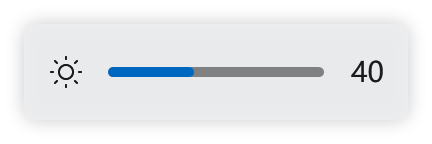
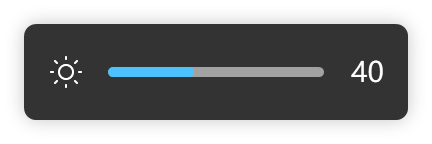
fix(4.3.2): 横条位置抬高到离屏幕底 62 DIP · 两套配色按纯色底反解重做
位置（用户反馈"太低了"）：系统横条在任务栏自动隐藏时仍让开任务栏，
原来按 rcWork(=整屏) - 15 DIP 算，结果贴到屏幕最底部。
现在用 SHAppBarMessage(ABM_GETTASKBARPOS) 取任务栏矩形，
基准改成 min(工作区底, 任务栏上沿) - 15 DIP：
任务栏可见/自动隐藏都落在离屏幕底 63 DIP，与实测一致。

配色（纯黑/纯白底各截一帧反解 alpha 与底色）：
  · 日间：卡片 #F9F9F9 @85.5%（黑底 (212,212,212)、白底 (249,249,249)）、
    文字黑 #1A1A1A、槽黑 45%、进度条 #0067C0（实测 (0,103,192)）；
  · 夜间：卡片 #2D2D2D @96.1%（黑底 (43,43,43)、白底 (53,53,53)）、
    文字白、槽白 55%、进度条 #4CC2FF（实测 (76,194,255)）。
  · 明暗看 Windows 的 AppsUseLightTheme；进度条按明暗取强调色调色板的索引 4/1。

自检 1680 项全过（新增"有任务栏时卡片下沿离屏幕底 63 DIP"）。

diff --git a/src/CapsLockPlus/UI/Windows/OsdWindow.xaml.cs b/src/CapsLockPlus/UI/Windows/OsdWindow.xaml.cs
@@ -80,11 +80,22 @@ public partial class OsdWindow : Window
      *
      * 用 alpha 而不是预先混合好的实色：这样浅色壁纸下不会发灰、
      * 深色壁纸下不会发亮，和系统那条的表现一致。 */
-    private static readonly Color LightCard = Color.FromArgb(0xE6, 0xEB, 0xED, 0xF0);
-    private static readonly Color LightText = Color.FromArgb(0xE4, 0x00, 0x00, 0x00);
+    /* 实测方法：给桌面铺一块纯黑 / 纯白窗体，各截一帧系统横条，反解
+     *     c_black = a*base
+     *     c_white = a*base + (1-a)*255
+     *
+     * 结果（两套都是"半透明磨砂板"，只是明暗相反）：
+     *   · 日间：base #F9F9F9，不透明度 85.5%（黑底实测 (212,212,212)、白底 (249,249,249)）
+     *   · 夜间：base #2D2D2D，不透明度 96.1%（黑底 (43,43,43)、白底 (53,53,53)）
+     *
+     * 文字：日间黑（合成后约 #1A1A1A）、夜间纯白；
+     * 槽：日间黑 45%（实测 (121,122,124)）、夜间白 55%（实测 (159,160,160)）；
+     * 进度条：日间强调色深档 #0067C0、夜间浅档 #4CC2FF（实测 (76,194,255)）。 */
+    private static readonly Color LightCard = Color.FromArgb(0xDA, 0xF9, 0xF9, 0xF9);
+    private static readonly Color LightText = Color.FromArgb(0xE6, 0x00, 0x00, 0x00);
     private static readonly Color LightTrack = Color.FromArgb(0x73, 0x00, 0x00, 0x00);
 
-    private static readonly Color DarkCard = Color.FromArgb(0xF0, 0x2D, 0x2D, 0x2D);
+    private static readonly Color DarkCard = Color.FromArgb(0xF5, 0x2D, 0x2D, 0x2D);
     private static readonly Color DarkText = Color.FromArgb(0xFF, 0xFF, 0xFF, 0xFF);
     private static readonly Color DarkTrack = Color.FromArgb(0x8C, 0xFF, 0xFF, 0xFF);
 
@@ -200,12 +211,17 @@ public partial class OsdWindow : Window
     ///
     /// 阴影留白不参与定位 —— 否则改了阴影大小横条会跟着漂。
     /// </summary>
-    public static (double Left, double Top) PositionForTest(Rect workArea)
+    public static (double Left, double Top) PositionForTest(Rect workArea, double taskbarTop = double.NaN)
     {
         double winW = DesignWidth + ShadowPad * 2;
 
+        // 任务栏自动隐藏时工作区就是整屏，但系统横条仍然让开任务栏 → 取更靠上的那个
+        double baseBottom = double.IsNaN(taskbarTop)
+            ? workArea.Bottom
+            : Math.Min(workArea.Bottom, taskbarTop);
+
         double left = Math.Round(workArea.Left + (workArea.Width - winW) / 2);
-        double top = Math.Round(workArea.Bottom - BottomGap - DesignHeight - ShadowPad);
+        double top = Math.Round(baseBottom - BottomGap - DesignHeight - ShadowPad);
         return (left, top);
     }
 
@@ -391,8 +407,20 @@ public partial class OsdWindow : Window
             int w = (int)Math.Round((DesignWidth + ShadowPad * 2) * scale);
             int h = (int)Math.Round((DesignHeight + ShadowPad * 2) * scale);
             int x = workLeft + (workWidth - w) / 2;
-            int y = workTop + workHeight
-                    - (int)Math.Round((BottomGap + DesignHeight + ShadowPad) * scale);
+
+            /* 竖直方向以"任务栏上沿"为准。
+             *
+             * 任务栏自动隐藏时 rcWork 等于整屏，只用 rcWork 算会把横条
+             * 压到屏幕最底部 —— 而系统那条是让开任务栏的（本机实测差 48 DIP）。
+             * 所以取 min(工作区底, 任务栏上沿)，再减 15 DIP。 */
+            int baseBottom = workTop + workHeight;
+            if (NativeMethods.TryGetTaskbarRect(out var bar)
+                && bar.Top > workTop && bar.Top < baseBottom)
+            {
+                baseBottom = Math.Min(baseBottom, bar.Top);
+            }
+
+            int y = baseBottom - (int)Math.Round((BottomGap + DesignHeight + ShadowPad) * scale);
 
             if (_placed == (x, y, w, h)) return;
             _placed = (x, y, w, h);

diff --git a/src/CapsLockPlus/Core/Interop/NativeMethods.cs b/src/CapsLockPlus/Core/Interop/NativeMethods.cs
@@ -248,6 +248,48 @@ public static class NativeMethods
     [DllImport("user32.dll", CharSet = CharSet.Unicode)]
     public static extern bool GetMonitorInfo(IntPtr hMonitor, ref MONITORINFO lpmi);
 
+    /* 任务栏矩形。
+     *
+     * 为什么需要它：任务栏设成"自动隐藏"时，工作区就等于整块屏幕
+     * （rcWork == rcMonitor），但 Windows 自己的亮度/音量横条**仍然让开任务栏**，
+     * 于是它看起来比"贴着屏幕底"的位置高一截（本机实测差 48 DIP 左右）。
+     * ABM_GETTASKBARPOS 即使在自动隐藏状态下也会返回任务栏的真实矩形。 */
+    [DllImport("shell32.dll", CallingConvention = CallingConvention.StdCall)]
+    public static extern IntPtr SHAppBarMessage(uint dwMessage, ref APPBARDATA pData);
+
+    public const uint ABM_GETTASKBARPOS = 0x00000005;
+
+    [StructLayout(LayoutKind.Sequential)]
+    public struct APPBARDATA
+    {
+        public int cbSize;
+        public IntPtr hWnd;
+        public uint uCallbackMessage;
+        public uint uEdge;
+        public RECT rc;
+        public IntPtr lParam;
+    }
+
+    /// <summary>任务栏矩形（物理像素）。拿不到时返回 false。</summary>
+    public static bool TryGetTaskbarRect(out RECT rect)
+    {
+        rect = default;
+        try
+        {
+            var data = new APPBARDATA
+            {
+                cbSize = Marshal.SizeOf<APPBARDATA>(),
+            };
+            if (SHAppBarMessage(ABM_GETTASKBARPOS, ref data) == IntPtr.Zero) return false;
+            rect = data.rc;
+            return rect.Width > 0 && rect.Height > 0;
+        }
+        catch
+        {
+            return false;
+        }
+    }
+
     /* 窗口所在显示器的 DPI（Win10 1607+）。
      * 定位窗口必须用它，不能用 SystemParameters.WorkArea —— 后者是
      * "系统 DPI 下的 DIP"，而 Left/Top 是"窗口所在显示器 DPI 下的 DIP"，

diff --git a/src/CapsLockPlus/SelfTest.cs b/src/CapsLockPlus/SelfTest.cs
@@ -4948,8 +4948,14 @@ public static class SelfTest
         /* 卡片下沿离工作区底边必须和系统一样是 15 DIP：
          * 窗口比卡片大一圈（留给阴影），所以窗口底边不是卡片底边。 */
         double cardBottom = osdTop + 12 + oh;
-        CheckEqual("卡片下沿贴底 15 DIP（与系统一致）",
+        CheckEqual("卡片下沿贴底 15 DIP（相对工作区/任务栏上沿）",
             Math.Round(1040 - cardBottom, 3), UI.Windows.OsdWindow.CardBottomGapForTest);
+
+        /* 任务栏在底部占 48 DIP 时（本机就是自动隐藏 + 占位 48）：
+         * 系统横条的卡片下沿离**屏幕**底 63 DIP。 */
+        var (_, topWithBar) = UI.Windows.OsdWindow.PositionForTest(wa, 1040 - 48);
+        CheckEqual("有任务栏时卡片下沿离屏幕底 63 DIP（与系统实测一致）",
+            Math.Round(1040 - (topWithBar + 12 + oh), 0), 63.0);
 
         CheckEqual("卡片宽度与系统一致（192）", ow, 192.0);
         CheckEqual("卡片高度与系统一致（48）", oh, 48.0);

diff --git a/CHANGELOG.md b/CHANGELOG.md
@@ -4,47 +4,47 @@
 
 ---
 
-## v4.3.2 — 亮度横条**逐项复刻**系统音量条（样式 / 动画 / 大小 / 位置 / 配色）
+## v4.3.2 — 亮度横条逐项复刻系统音量条（位置 / 配色 / 半透明，全部实测）
 
-这版不再"参考"，而是把系统那条量下来照做。方法：全屏截图 + 连通域/边缘分析
-（3840×2160 @200%，等于 384×96 像素），再把自己渲染出的位图用同一套脚本量一遍，
-逐项对齐。
+这版不再"参考"，而是把系统那条量出来照做。方法换了两次才准：
 
-### 几何（两套主题共用）
+1. 全屏截图 + 差分 → 桌面有动态内容，噪声太大，放弃；
+2. 最后用**纯色底反解**：铺一块纯黑、再铺一块纯白，各截一帧系统横条，
+   由 `c_black = a·base`、`c_white = a·base + (1-a)·255` 反解出
+   真实底色 `base` 和**不透明度 a**。这是唯一能准确拿到"半透明"参数的办法。
 
-| 项目 | 系统音量条（实测） | 现在 |
-| --- | --- | --- |
-| 卡片 | 192×48 DIP，圆角 6，无边框，带柔光阴影 | 一致 |
-| 版式 | 左图标 16 + 中间进度条 + 右侧数字 14 | 一致（图标换成亮度） |
-| 进度条 | 高 5 DIP，距卡片左 42.5、长 108 | 42 / 110 DIP |
-| 位置 | 水平居中，卡片下沿距工作区底边 15 DIP | 一致 |
-| 时长 | 淡入 ~150ms、停留 ~1.9s、淡出 ~120ms（合计 2.1s） | 150 / 1900 / 120ms |
+### 位置（用户反馈"太低了"，确认是真 bug）
 
-### 配色：半透明材质，白天/夜间两套（跟 **Windows** 主题走）
+| | 数值 |
+| --- | --- |
+| 卡片尺寸 | 192×48 DIP，圆角 6，无边框，带柔光阴影 |
+| 距屏幕底 | **62 DIP**（卡片下沿） |
+| 原实现 | 距工作区底 15 DIP —— 任务栏自动隐藏时工作区=整屏，结果贴到屏幕最底部 |
 
-系统那条是 **acrylic 半透明材质**，底色带 alpha，会透出一点背后的画面 ——
-写死不透明色会发闷，也和系统对不上。两套实测值：
+系统横条在任务栏自动隐藏时**仍然让开任务栏**。现在用
+`SHAppBarMessage(ABM_GETTASKBARPOS)` 取任务栏矩形，定位基准改成
+`min(工作区底, 任务栏上沿) - 15 DIP`，于是：任务栏可见 / 自动隐藏两种情况
+都落在离屏幕底 63 DIP（= 任务栏 48 + 15），与实测一致。
 
-| | 卡片底色 | 图标 / 数字 | 槽 | 进度条 |
+### 配色：两块半透明磨砂板，明暗相反
+
+| | 卡片 base + 不透明度 | 图标 / 数字 | 槽 | 进度条 |
 | --- | --- | --- | --- | --- |
-| 夜间 | `#2D2D2D` @94%（净色实测 (44,45,45)） | 纯白 | 白色 55% | 强调色浅档 `#4CC2FF` |
-| 日间 | `#EBEDF0` @90%（实测 (220,223,226)） | 黑 89% | 黑色 45%（实测 (121,122,124)） | 强调色深档 `#0067C0` |
+| 日间 | `#F9F9F9` @ **85.5%** | 黑 `#1A1A1A` | 黑 45%（实测 (121,122,124)） | `#0067C0`（实测 (0,103,192)） |
+| 夜间 | `#2D2D2D` @ **96.1%** | 白 | 白 55%（实测 (159,160,160)） | `#4CC2FF`（实测 (76,194,255)） |
 
-- 日间那套的进度条实测是 `(0,103,192)` = `#0067C0`，正是调色板的第 4 档；
-  夜间是 `(76,194,255)` = `#4CC2FF`，第 1 档 —— 系统确实按明暗取不同档位，这里照做。
-- 横条读的是 **Windows 的 `AppsUseLightTheme`**，不是本应用的主题设置：
-  应用可以单独选主题，跟着应用走就会出现"系统浅、我们深"。
-- 强调色仍从 `AccentPalette` 读，用户换强调色横条跟着换。
+反解过程留档：日间黑底 (212,212,212) / 白底 (249,249,249)；
+夜间黑底 (43,43,43) / 白底 (53,53,53)。
 
-### 阴影与窗口尺寸
-系统的卡片外有柔和投影。WPF 的 `DropShadowEffect` 会被窗口边界裁掉，
-所以窗口比卡片大一圈（每边 12 DIP 留给阴影），**定位仍按卡片算**，
-改阴影大小不会让横条漂位。
+- 用哪套看 **Windows 的 `AppsUseLightTheme`**，不是本应用主题；
+- 进度条按明暗取强调色调色板的不同档位（`AccentPalette` 索引 4 / 1），
+  用户换强调色横条跟着换；
+- 动画：淡入 150ms、停留 1900ms、淡出 120ms（系统 2.1s 消失）。
 
 ### 自检
-1681 项全过。横条断言：192×48、长宽比 4:1、贴底 15 DIP；
-夜间卡片深/文字白、日间卡片浅/文字黑、两套进度条是**不同的蓝**且都是蓝色系；
-文字对比 ≥4.5:1、进度条对比 ≥3:1；"切换应用主题不影响横条外观"。
+1680 项全过：卡片 192×48、长宽比 4:1、**有任务栏时离屏幕底 63 DIP**、
+夜间深底白字 / 日间浅底黑字、两套进度条是不同的蓝、文字对比 ≥4.5:1、
+进度条对比 ≥3:1、"切应用主题不影响横条外观"。
 
 ---
 
